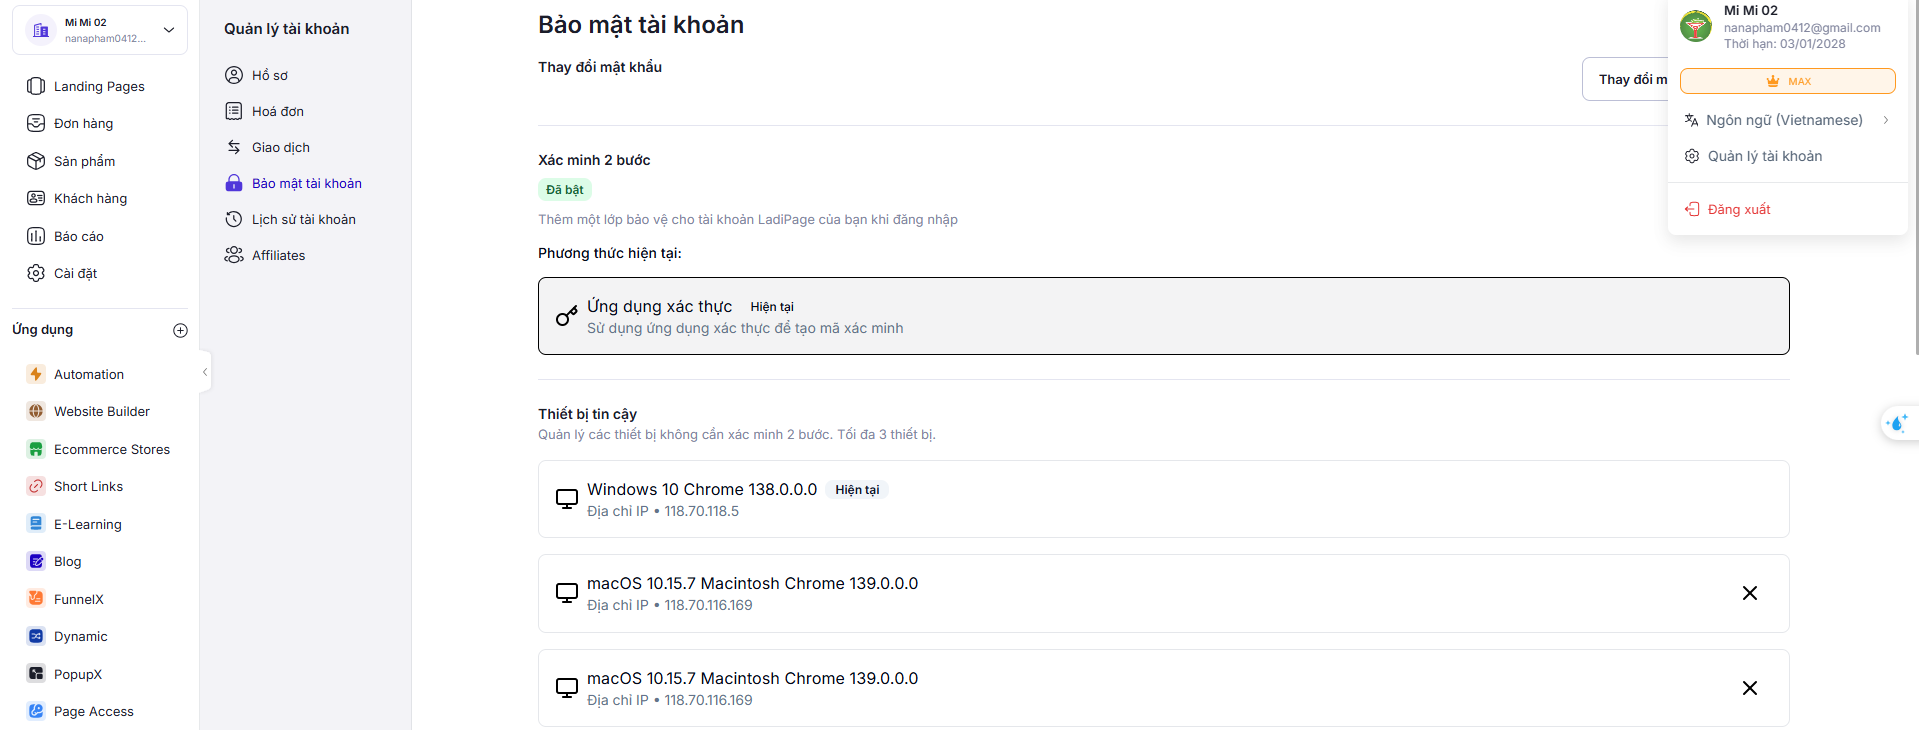
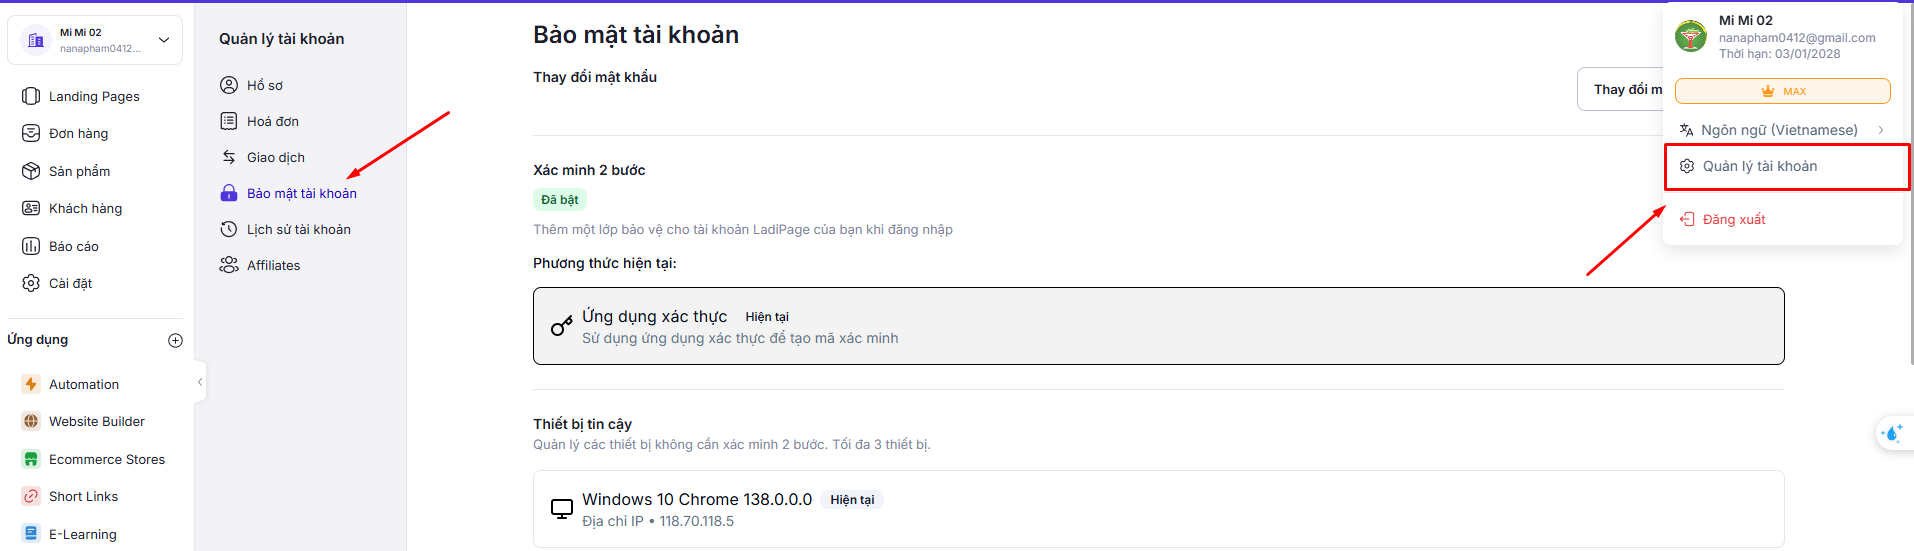
GITBOOK-59: No subject

diff --git a/x.-ung-dung/popupx.md b/x.-ung-dung/popupx.md
@@ -22,9 +22,9 @@ Truy cập vào trang chỉnh sửa PopupX, mục Xuất bản, copy phần code
 
 #### Bước 2 : Truy cập builder chỉnh sửa của trang LandingPage muốn hiển thị PopupX, có 2 cách để thiết lập hiển thị PopupX trên Landingpage&#x20;
 
-**Cách 1 :** Ở builder, vào mục Ứng dụng, PopupX, chọn Bật , để tích hợp PopupX vào trang của bạn
+**Cách 1 :** Ở builder, vào mục Tiện ích , PopupX, chọn Bật , để tích hợp PopupX vào trang của bạn
 
-![](<../.gitbook/assets/image (611).png>)
+<figure><img src="../.gitbook/assets/image.png" alt=""><figcaption></figcaption></figure>
 
 **Cách 2:**  Vào mục Thiết lập- Mã javascripts/css. Bạn paste phần code PopupX SDK đã copy ở bước 1, chèn vào mục Trước thẻ \</head>
 

diff --git a/xviii.-cac-thiet-lap-cho-landingpage/4.quan-ly-tai-khoan/bao-mat-tai-khoan/README.md b/xviii.-cac-thiet-lap-cho-landingpage/4.quan-ly-tai-khoan/bao-mat-tai-khoan/README.md
@@ -8,7 +8,7 @@ Truy cập app.ladipage.com , góc trên cùng bên phải builder, mục Quản
 
 <figure><img src="../../../.gitbook/assets/image (3).png" alt=""><figcaption></figcaption></figure>
 
-<figure><img src="../../../.gitbook/assets/image (1).png" alt=""><figcaption></figcaption></figure>
+<figure><img src="../../../.gitbook/assets/image (1) (1).png" alt=""><figcaption></figcaption></figure>
 
 ## 1. 🔑 **Thay Đổi Mật Khẩu**
 
